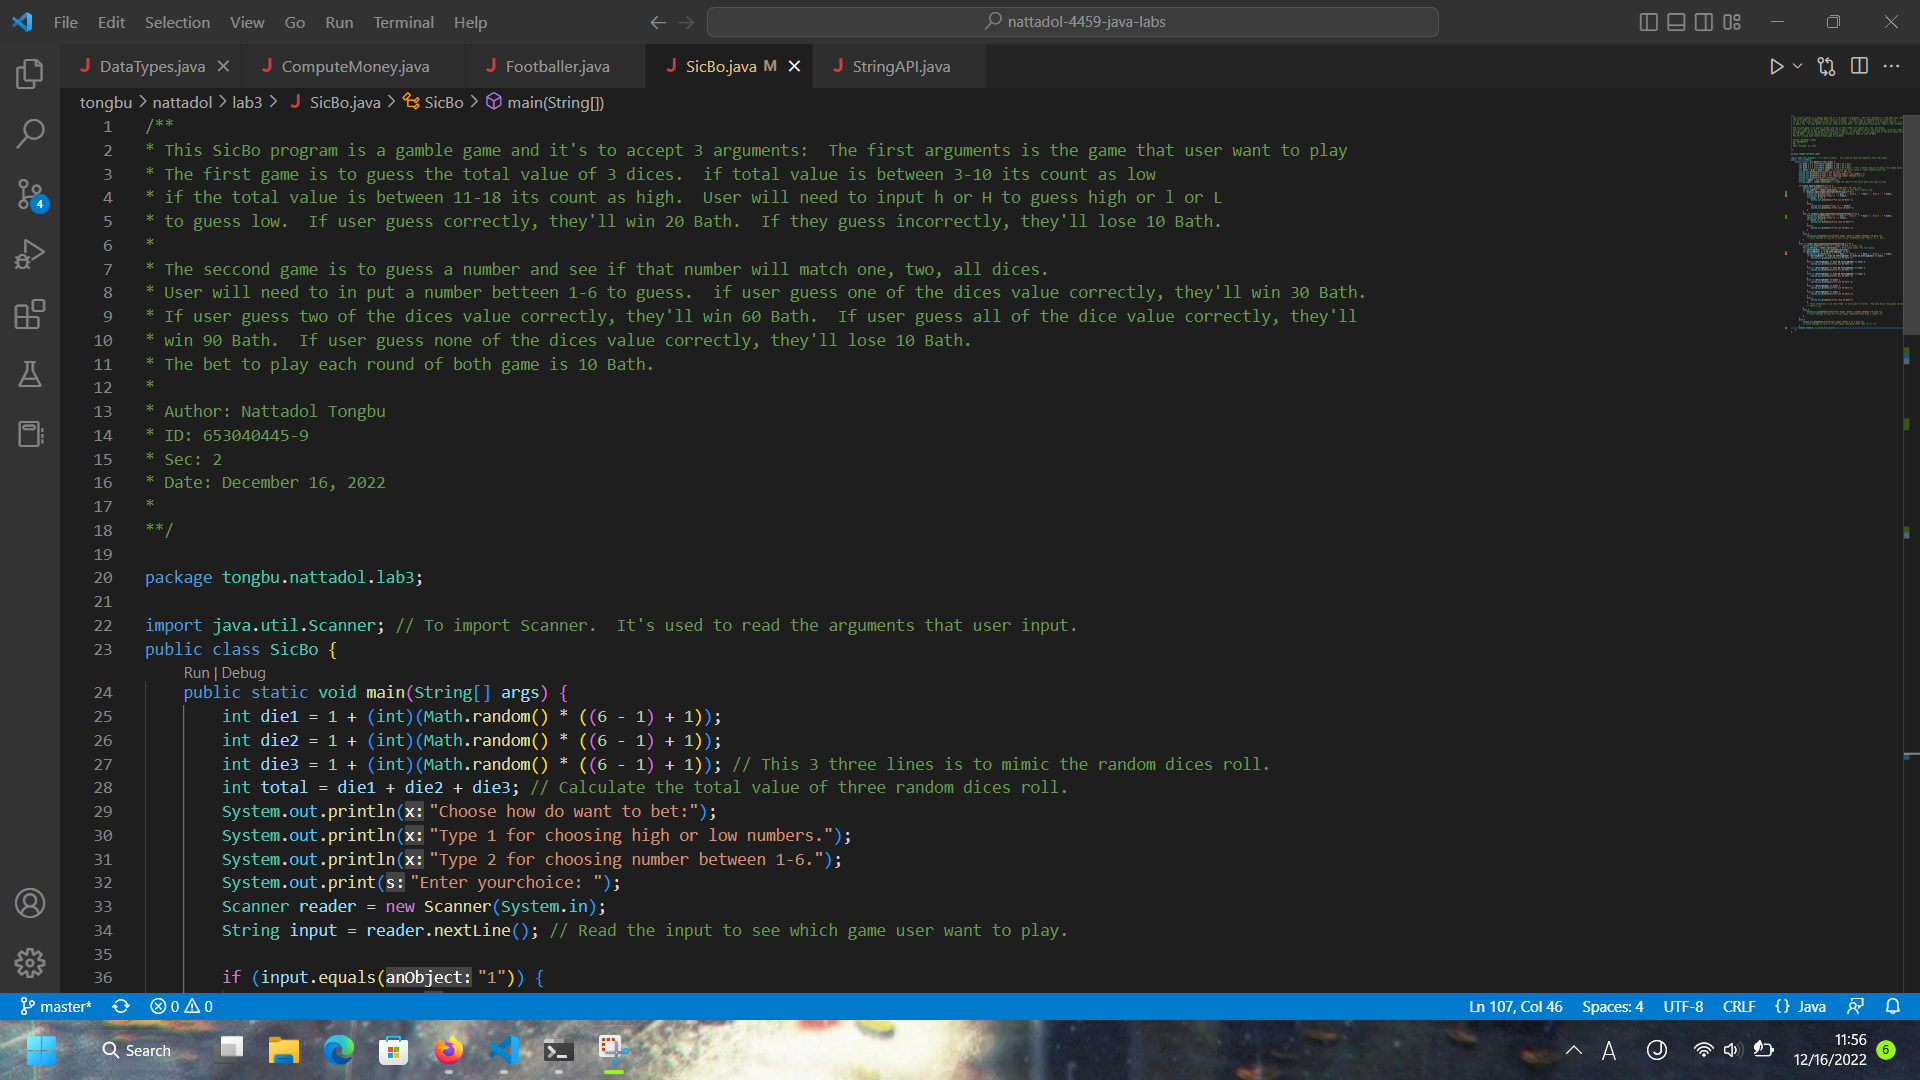
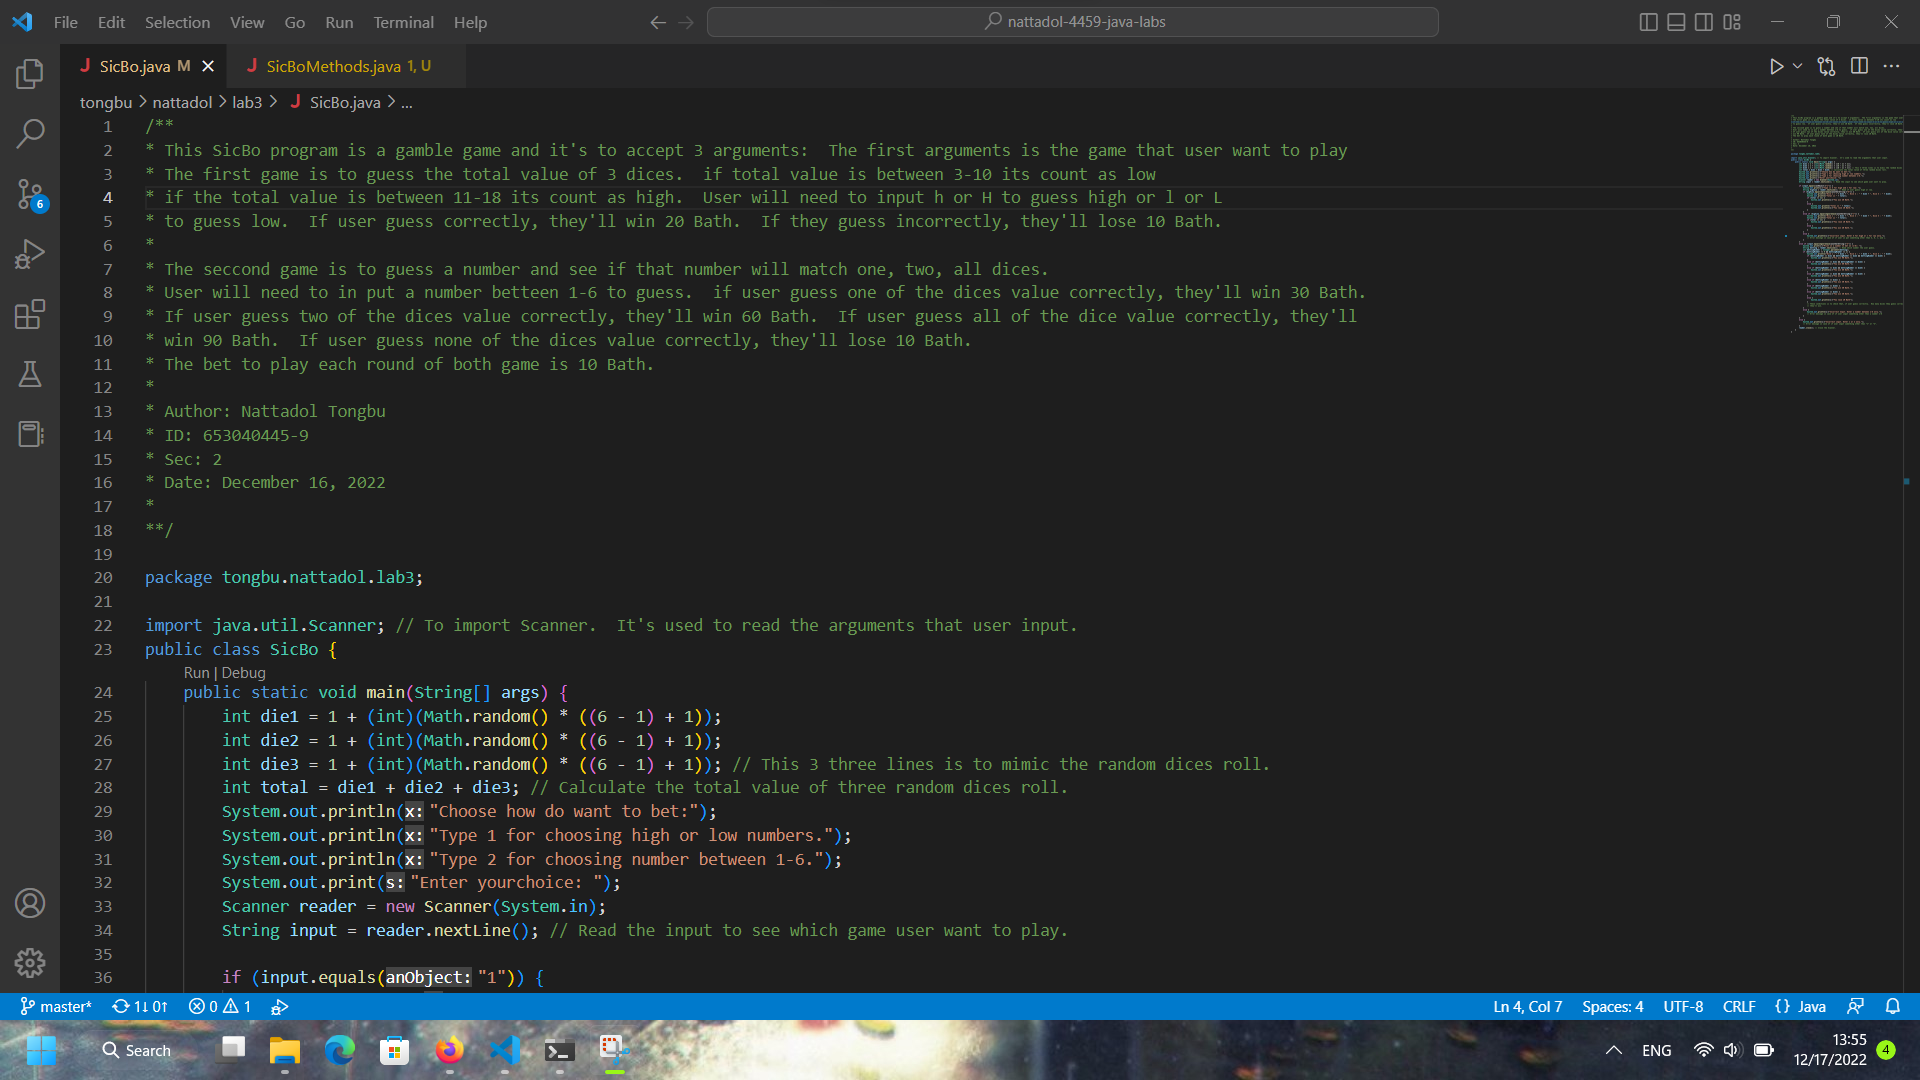
setup

diff --git a/tongbu/nattadol/lab3/SicBoMethods.java b/tongbu/nattadol/lab3/SicBoMethods.java
@@ -1,41 +1,50 @@
 /**
-* This SicBo program is a gamble game and it's to accept 3 arguments:  The first arguments is the game that user want to play
-* The first game is to guess the total value of 3 dices.  if total value is between 3-10 its count as low
-* if the total value is between 11-18 its count as high.  User will need to input h or H to guess high or l or L
-* to guess low.  If user guess correctly, they'll win 20 Bath.  If they guess incorrectly, they'll lose 10 Bath.
-* 
-* The seccond game is to guess a number and see if that number will match one, two, all dices.  
-* User will need to in put a number betteen 1-6 to guess.  if user guess one of the dices value correctly, they'll win 30 Bath.
-* If user guess two of the dices value correctly, they'll win 60 Bath.  If user guess all of the dice value correctly, they'll
-* win 90 Bath.  If user guess none of the dices value correctly, they'll lose 10 Bath.
-* The bet to play each round of both game is 10 Bath.
+* This SicBoMethods program is the same as SicBo program but now we create 2 methods.  The first method getChoice() is use to 
+* get the choice of the game that user want to play.  When user input which game they want.  The seccond method playGame is called.
+* playGame() is the method contains both the same game as in SicBo program.  The first game required user to guess the total 
+* value of three dices.  3-10 is low and 11-18 is high.  If user guess correctly they'll win 20 Bath.  If not they'll 10 Bath.
+* The seccond game required user to pick a number 1-6, then the dice is rolled.  If one of the dices roll the same number as user
+* have picked.  They'll win 30 Bath.  If two of the dices roll the same number as user have picked.  They'll 60 Bath.  
+* If all of the dices roll the same number as user have picked.  They'll win 90 Bath.  
+* If none of the dices roll the same number as user have picked.  They'll lose 10 Bath.
+* Each round of both game required 10 Bath to play.
 *
 * Author: Nattadol Tongbu
 * ID: 653040445-9
 * Sec: 2
-* Date: December 16, 2022
+* Date: December 17, 2022
 *
 **/
 
 package tongbu.nattadol.lab3;
 
-import java.util.Scanner; // To import Scanner.  It's used to read the arguments that user input.
-public class SicBo {
+import java.util.Scanner; // Import Scanner to read the user input.
+
+public class SicBoMethods {
+    static int choice; // Declare variable choice with static so its can be used across the program.
+    static Scanner reader = new Scanner(System.in); // Create new Scanner with static so its can be use across the program.
     public static void main(String[] args) {
-        int die1 = 1 + (int)(Math.random() * ((6 - 1) + 1));
-        int die2 = 1 + (int)(Math.random() * ((6 - 1) + 1));
-        int die3 = 1 + (int)(Math.random() * ((6 - 1) + 1)); // This 3 three lines is to mimic the random dices roll.
-        int total = die1 + die2 + die3; // Calculate the total value of three random dices roll.
+        getChoice();
+        playGame();
+    }
+    
+    public static void getChoice() {
         System.out.println("Choose how do want to bet:");
         System.out.println("Type 1 for choosing high or low numbers.");
         System.out.println("Type 2 for choosing number between 1-6.");
         System.out.print("Enter yourchoice: ");
-        Scanner reader = new Scanner(System.in);
-        String input = reader.nextLine(); // Read the input to see which game user want to play.
+        choice = reader.nextInt(); // Read the input to see which game user want to play.
+    }
+        // getChoice() method to ask the user for which game they want to play, read the input, and pass the value to variable choice.
 
-        if (input.equals("1")) {
+    public static void playGame() {
+        int die1 = 1 + (int)(Math.random() * ((6 - 1) + 1));
+        int die2 = 1 + (int)(Math.random() * ((6 - 1) + 1));
+        int die3 = 1 + (int)(Math.random() * ((6 - 1) + 1)); // This 3 three lines is to mimic the random dices roll.
+        int total = die1 + die2 + die3; // Calculate the total value of three random dices roll.
+        if (choice == 1) {
             System.out.print("Type in h for high and l for low: ");
-            String highLow = reader.nextLine(); // Read if user guess high or low.
+            String highLow = reader.next(); // Read if user guess high or low.
             if (highLow.equalsIgnoreCase("h")) {
                 System.out.println("Dice 1 : " + die1 + ", Dice 2 : " + die2 + ", Dice 3 : " + die3);
                 System.out.println("Total is " + total);
@@ -62,9 +71,9 @@ public class SicBo {
                 // Error messege in case of if user in put something other than h, H, l, and L.
             }
         }
-        else if (input.equalsIgnoreCase("2")) {
+        else if (choice == 2) { 
             System.out.print("Print in a number to bet on (1-6): ");
-            String betting = reader.nextLine(); // Read which number the user guess.
+            String betting = reader.next(); // Read which number the user guess.
             int bettingNumber = Integer.parseInt(betting);
             if (bettingNumber <= 6 && bettingNumber >= 1) {
                 System.out.println("Dice 1 : " + die1 + ", Dice 2 : " + die2 + ", Dice 3 : " + die3);
@@ -103,7 +112,9 @@ public class SicBo {
         else {
             System.out.println("Incorrect input. Enter 1 or 2 only."); 
             // Error message in case of if user input something other than "1" or "2".
-        }
-        reader.close(); // Close the Scanner.
-    }  
+        } 
+        // playGame() method contains both games.  The game that will be played depend on what the input user type in.
+        // If 1 then the Sic Bo game is played.  If 2 then the guess the dices number is played.
+        reader.close(); // Close the Scanner
+    }
 }
